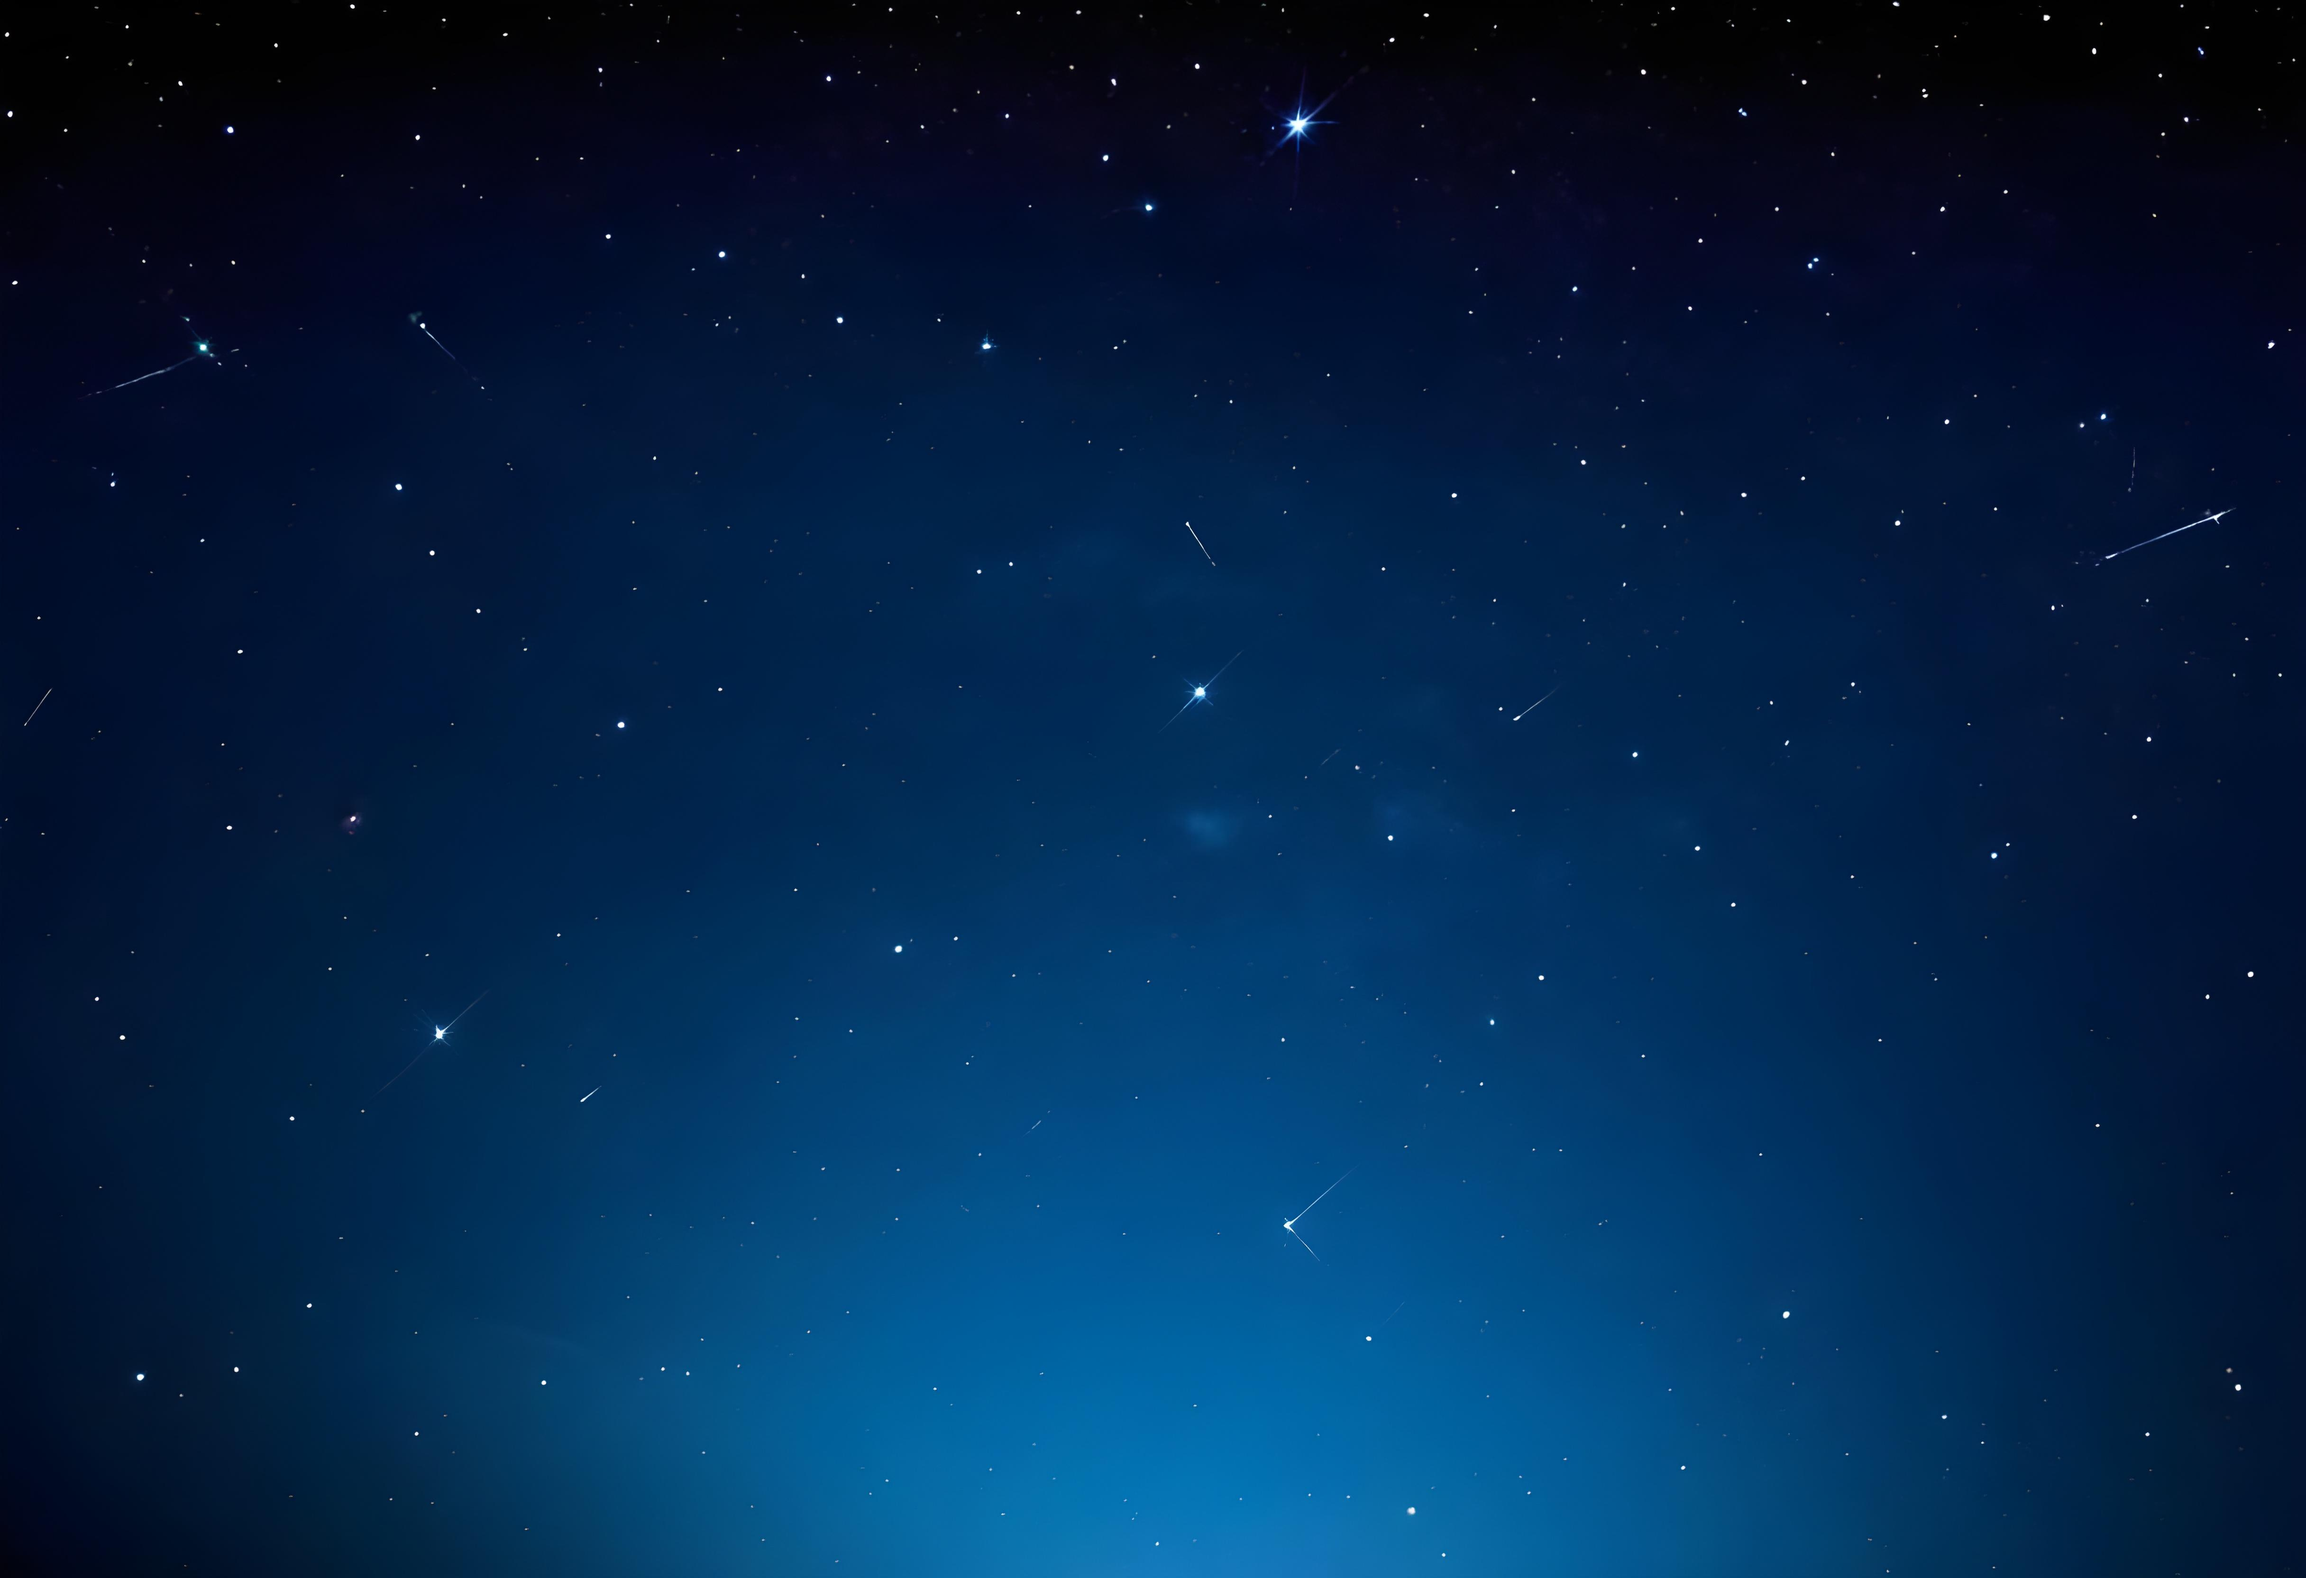
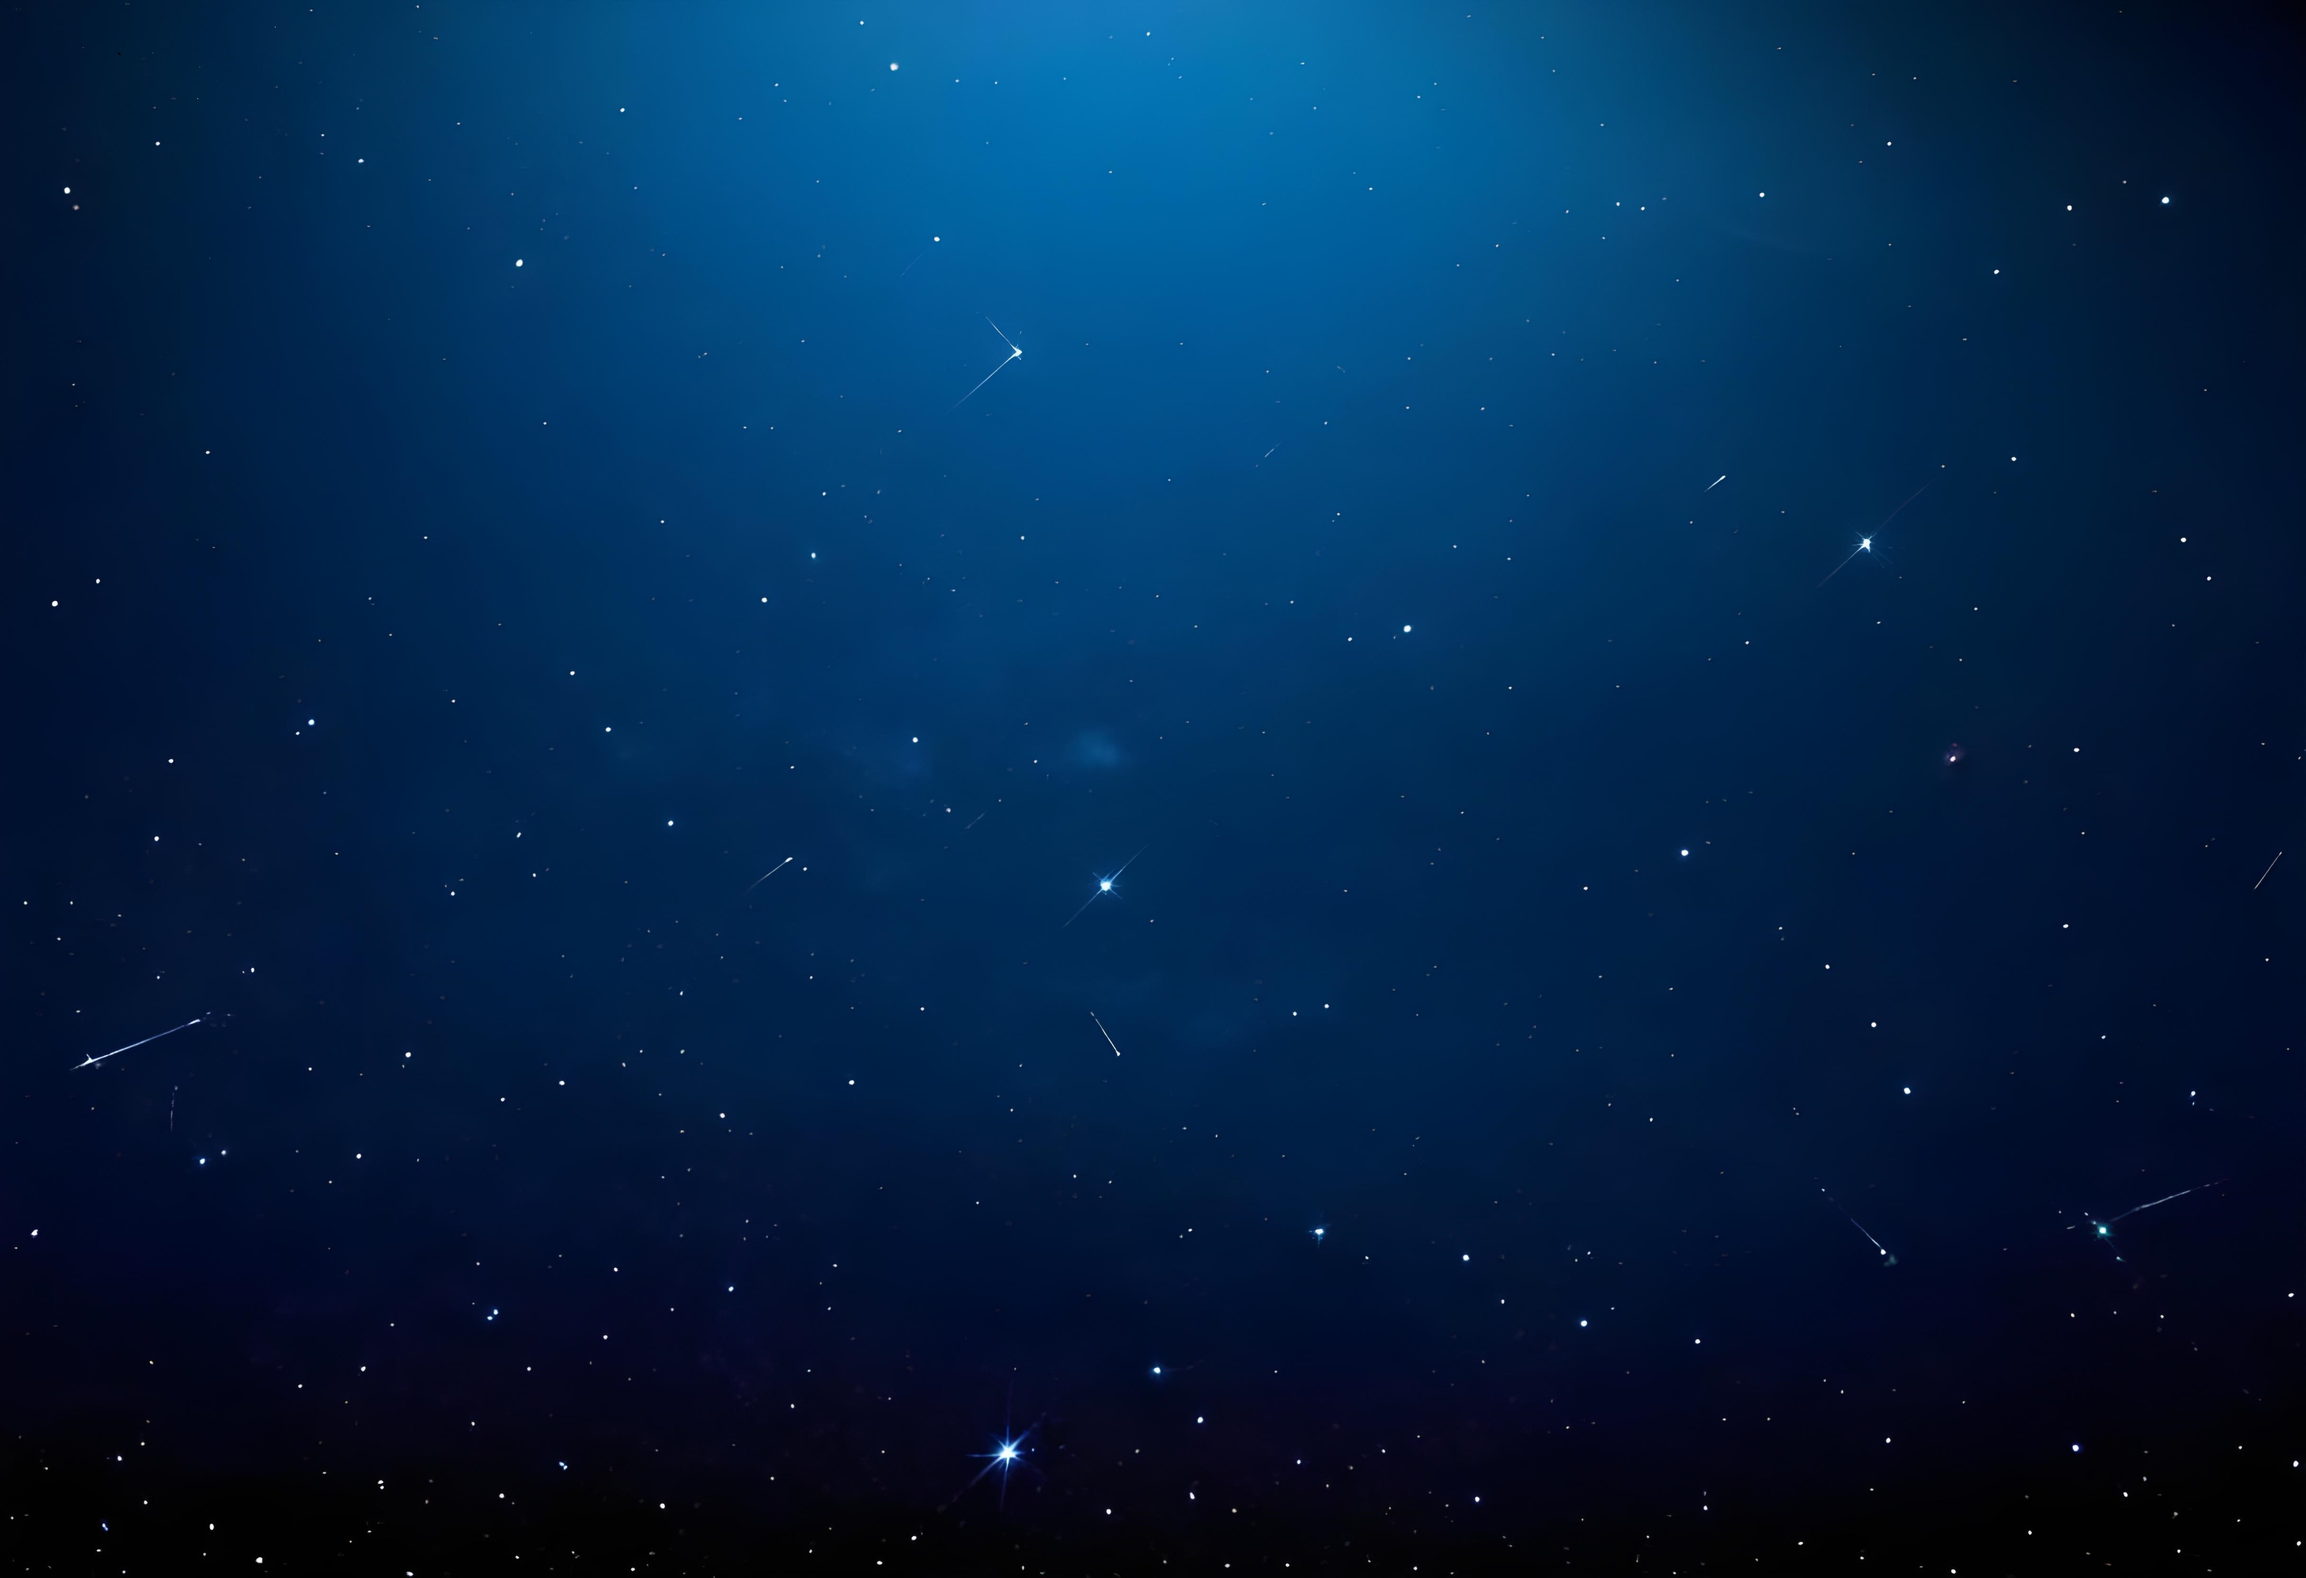
some qrality ui changes project 2

diff --git a/core/src/main/java/io/github/angry_birds/MenuScreen.java b/core/src/main/java/io/github/angry_birds/MenuScreen.java
@@ -26,7 +26,6 @@ public class MenuScreen implements Screen {
     private SpriteBatch batch;
     private final ShapeRenderer shapeRenderer;
     private Texture background;
-    private Texture layer1;
     private Texture backbutton;
     private Texture asteroid1;
     private Texture asteroid2;
@@ -51,11 +50,16 @@ public class MenuScreen implements Screen {
     private float asteroid3SpeedX;
     private float asteroid3Rotation;
     private float asteroid3RotationSpeed;
+    private float asteroid4X, asteroid4Y;
+    private float asteroid4SpeedX;
+    private float asteroid4Rotation;
+    private Texture asteroid4;
     private float screenWidth;
     private Texture Background;
     private Texture worldboundary1;
     private Window window;
     private Stage stage;
+    private Texture worldclouds;
 
     public MenuScreen(Main game, Sound sound) {
         this.game = game;
@@ -84,15 +88,16 @@ public class MenuScreen implements Screen {
         batch = new SpriteBatch();
         Background = new Texture(Gdx.files.internal("ui/window.png"));
         background = new Texture(Gdx.files.internal("ui/newback.jpeg"));
-        layer1 = new Texture(Gdx.files.internal("ui/layer1.png"));
         backbutton = new Texture(Gdx.files.internal("ui/backnew.png"));
         asteroid1 = new Texture(Gdx.files.internal("ui/asteroid1.png"));
         asteroid2 = new Texture(Gdx.files.internal("ui/frozepig.png"));
         asteroid3 = new Texture(Gdx.files.internal("ui/asteroid3.png"));
+        asteroid4 = new Texture(Gdx.files.internal("ui/asteroid2.png"));
         world1 = new Texture(Gdx.files.internal("ui/world1.png"));
         world2 = new Texture(Gdx.files.internal("ui/redplanet.png"));
         world3 = new Texture(Gdx.files.internal("ui/jupiter.png"));
         worldboundary1 = new Texture(Gdx.files.internal("ui/grayity.png"));
+        worldclouds = new Texture(Gdx.files.internal("ui/theclouds.png"));
         camera = new OrthographicCamera();
         viewport = new FitViewport(1600, 900, camera);
         camera.position.set(1600 / 2f, 900 / 2f, 0);
@@ -103,16 +108,19 @@ public class MenuScreen implements Screen {
         asteroid2X = -asteroid2.getWidth() - 100;
         asteroid2Y = 700;
         asteroid3X = screenWidth + 200;
-        asteroid3Y = 100;
+        asteroid3Y = 200;
+        asteroid4X = screenWidth + 1600;
+        asteroid4Y = 600;
         asteroid1SpeedX = 15f;
         asteroid2SpeedX = 10f;
         asteroid3SpeedX = 15f;
+        asteroid4SpeedX = 30f;
         asteroid1Rotation = 0f;
-        asteroid1RotationSpeed = 15f;
+        asteroid1RotationSpeed = 0;
         asteroid2Rotation = 360f;
         asteroid2RotationSpeed = 5f;
-        asteroid3Rotation = 180f;
-        asteroid3RotationSpeed = 10f;
+        asteroid3Rotation = 0f;
+        asteroid3RotationSpeed = 0f;
         stage = new Stage(viewport, batch);
         Gdx.input.setInputProcessor(stage);
         Window.WindowStyle windowStyle = new Window.WindowStyle();
@@ -170,12 +178,7 @@ public class MenuScreen implements Screen {
             0.75f, 0.75f, asteroid1Rotation,
             0, 0, asteroid1.getWidth(), asteroid1.getHeight(),
             false, false);
-        batch.draw(world1, 300f, 300f, 0.9f * world1.getWidth(), 0.9f * world1.getHeight());
-        batch.draw(world2, 700f, 300f, 0.9f * world1.getWidth(), 0.9f * world1.getHeight());
-        batch.draw(world3, 1100f, 300f, 0.9f * world1.getWidth(), 0.9f * world1.getHeight());
-        batch.draw(worldboundary1, 273f, 277f, 1.1f * world1.getWidth(), 1.1f * world1.getHeight());
-        batch.draw(worldboundary1, 673f, 277f, 1.1f * world1.getWidth(), 1.1f * world1.getHeight());
-        batch.draw(worldboundary1, 1073f, 277f, 1.1f * world1.getWidth(), 1.1f * world1.getHeight());
+
         asteroid2X += asteroid2SpeedX * delta;
         if (asteroid2X > screenWidth) {
             asteroid2X = -asteroid2.getWidth() - 100;
@@ -197,11 +200,31 @@ public class MenuScreen implements Screen {
         batch.draw(asteroid3, asteroid3X, asteroid3Y,
             (float) asteroid3.getWidth() / 2, (float) asteroid3.getHeight() / 2,
             asteroid3.getWidth(), asteroid3.getHeight(),
-            0.4f, 0.4f, asteroid3Rotation,
+            1f, 1f, asteroid3Rotation,
             0, 0, asteroid3.getWidth(), asteroid3.getHeight(),
+            false, false);
+        asteroid4X -= asteroid4SpeedX * delta;
+        if (asteroid4X < -10) {
+            asteroid4X = screenWidth + 1600;
+        }
+        asteroid4Rotation += 0;
+        if (asteroid4Rotation > 360) asteroid4Rotation -= 360;
+        batch.draw(asteroid4, asteroid4X, asteroid4Y,
+            (float) asteroid4.getWidth() / 2, (float) asteroid4.getHeight() / 2,
+            asteroid4.getWidth(), asteroid4.getHeight(),
+            2f, 2f, asteroid4Rotation,
+            0, 0, asteroid4.getWidth(), asteroid4.getHeight(),
             false, false);
         float scaledExitButtonWidth = (float) backbutton.getWidth() / 2;
         float scaledExitButtonHeight = (float) backbutton.getHeight() / 2;
+//        batch.draw(backbutton, 50, 40, scaledExitButtonWidth, scaledExitButtonHeight);
+        batch.draw(worldclouds, 0, 0,worldclouds.getWidth(),worldclouds.getHeight());
+        batch.draw(world1, 300f, 300f, 0.9f * world1.getWidth(), 0.9f * world1.getHeight());
+        batch.draw(world2, 700f, 300f, 0.9f * world1.getWidth(), 0.9f * world1.getHeight());
+        batch.draw(world3, 1100f, 300f, 0.9f * world1.getWidth(), 0.9f * world1.getHeight());
+        batch.draw(worldboundary1, 273f, 277f, 1.1f * world1.getWidth(), 1.1f * world1.getHeight());
+        batch.draw(worldboundary1, 673f, 277f, 1.1f * world1.getWidth(), 1.1f * world1.getHeight());
+        batch.draw(worldboundary1, 1073f, 277f, 1.1f * world1.getWidth(), 1.1f * world1.getHeight());
         batch.draw(backbutton, 50, 40, scaledExitButtonWidth, scaledExitButtonHeight);
         batch.end();
         if (Gdx.input.justTouched()) {
@@ -255,7 +278,6 @@ public class MenuScreen implements Screen {
         batch.dispose();
         font.dispose();
         background.dispose();
-        layer1.dispose();
         backbutton.dispose();
         asteroid1.dispose();
         world1.dispose();
@@ -263,5 +285,8 @@ public class MenuScreen implements Screen {
         world3.dispose();
         worldboundary1.dispose();
         stage.dispose();
+        worldclouds.dispose();
+        asteroid4.dispose();
+
     }
 }

diff --git a/core/src/main/java/io/github/angry_birds/levelbg.java b/core/src/main/java/io/github/angry_birds/levelbg.java
@@ -9,7 +9,10 @@ import com.badlogic.gdx.graphics.Texture;
 import com.badlogic.gdx.graphics.g2d.BitmapFont;
 import com.badlogic.gdx.graphics.g2d.SpriteBatch;
 import com.badlogic.gdx.graphics.g2d.TextureRegion;
+import com.badlogic.gdx.math.Vector2;
 import com.badlogic.gdx.math.Vector3;
+import com.badlogic.gdx.physics.box2d.Box2D;
+import com.badlogic.gdx.physics.box2d.World;
 import com.badlogic.gdx.scenes.scene2d.InputEvent;
 import com.badlogic.gdx.scenes.scene2d.Stage;
 import com.badlogic.gdx.scenes.scene2d.ui.ImageButton;
@@ -41,6 +44,7 @@ public class levelbg implements Screen {
     private Texture planet2;
     private List<Block> blocks;
     private List<Pig> pigs;
+    private World world;
 
     public levelbg(Main game, Sound asound) {
         Sound sound1;
@@ -51,16 +55,20 @@ public class levelbg implements Screen {
         sound1 =Gdx.audio.newSound(Gdx.files.internal("ui/space1.mp3"));
         sound = sound1;
         touchPos = new Vector3();
+        Box2D.init();
     }
 
     public levelbg(Main game) {
         this.game = game;
         sound = Gdx.audio.newSound(Gdx.files.internal("ui/space1.mp3"));
-        touchPos = new Vector3();}
+        touchPos = new Vector3();
+        Box2D.init();
+    }
 
     @Override
     public void show() {
         batch = new SpriteBatch();
+        world = new World(new Vector2(0, -10), true);
         Background = new Texture(Gdx.files.internal("ui/screen.png"));
         levelbgsand = new Texture("ui/menu_background.png");
         Texture mainbutton = new Texture("ui/menuescreen.png");
@@ -277,6 +285,8 @@ public class levelbg implements Screen {
 
         stage.act(delta);
         stage.draw();
+        world.step(1/60f, 6, 2);
+
     }
 
     @Override

diff --git a/core/src/main/java/io/github/angry_birds/FirstScreen.java b/core/src/main/java/io/github/angry_birds/FirstScreen.java
@@ -42,7 +42,7 @@ public class FirstScreen implements Screen {
     @Override
     public void show() {
         batch = new SpriteBatch();
-        background = new Texture(Gdx.files.internal("ui/void.png"));
+        background = new Texture(Gdx.files.internal("ui/2063292.jpg"));
         playButton = new Texture(Gdx.files.internal("ui/playbutton.png"));
         exitButton = new Texture(Gdx.files.internal("ui/quit3.png"));
         camera = new OrthographicCamera();
